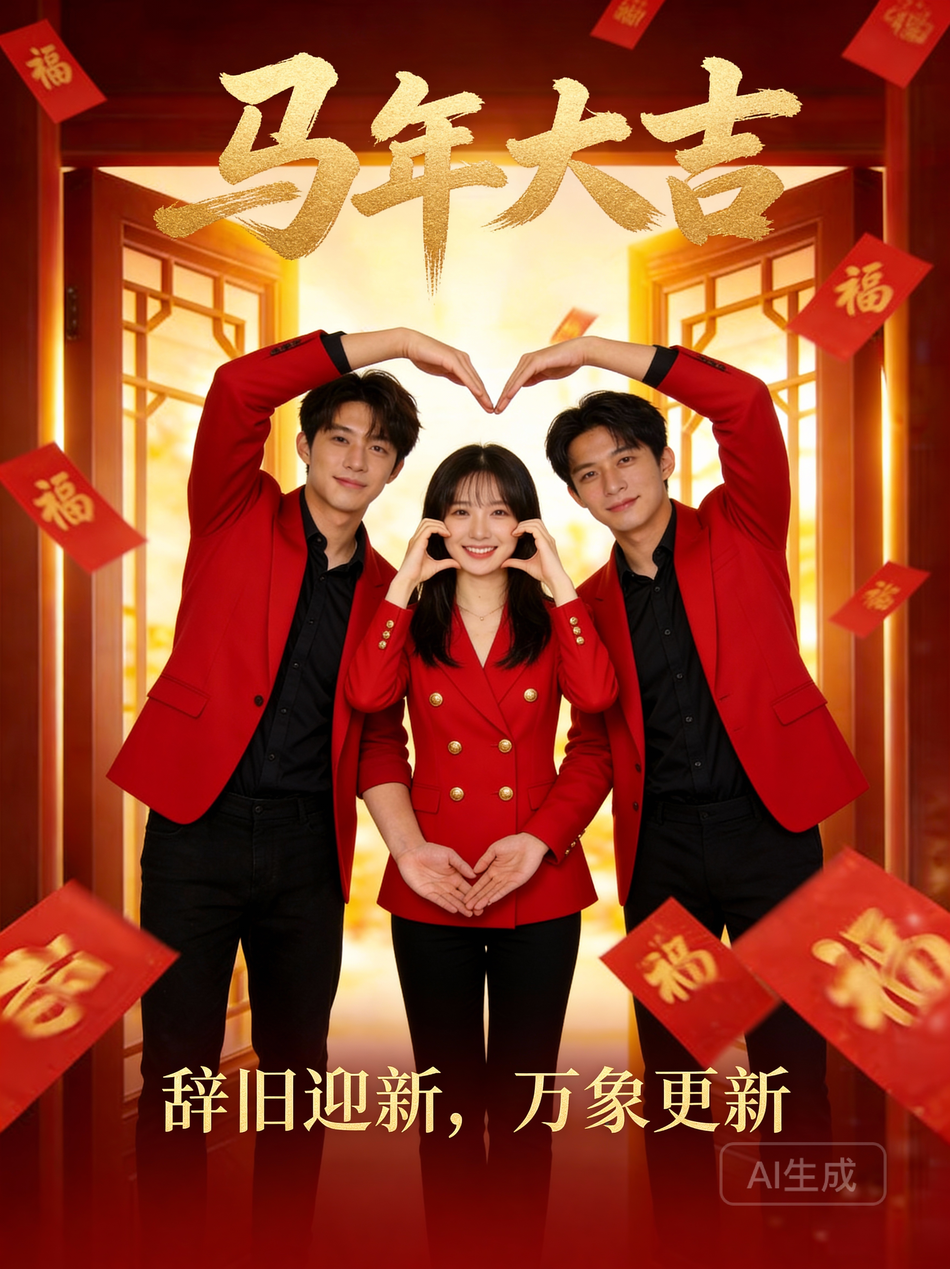
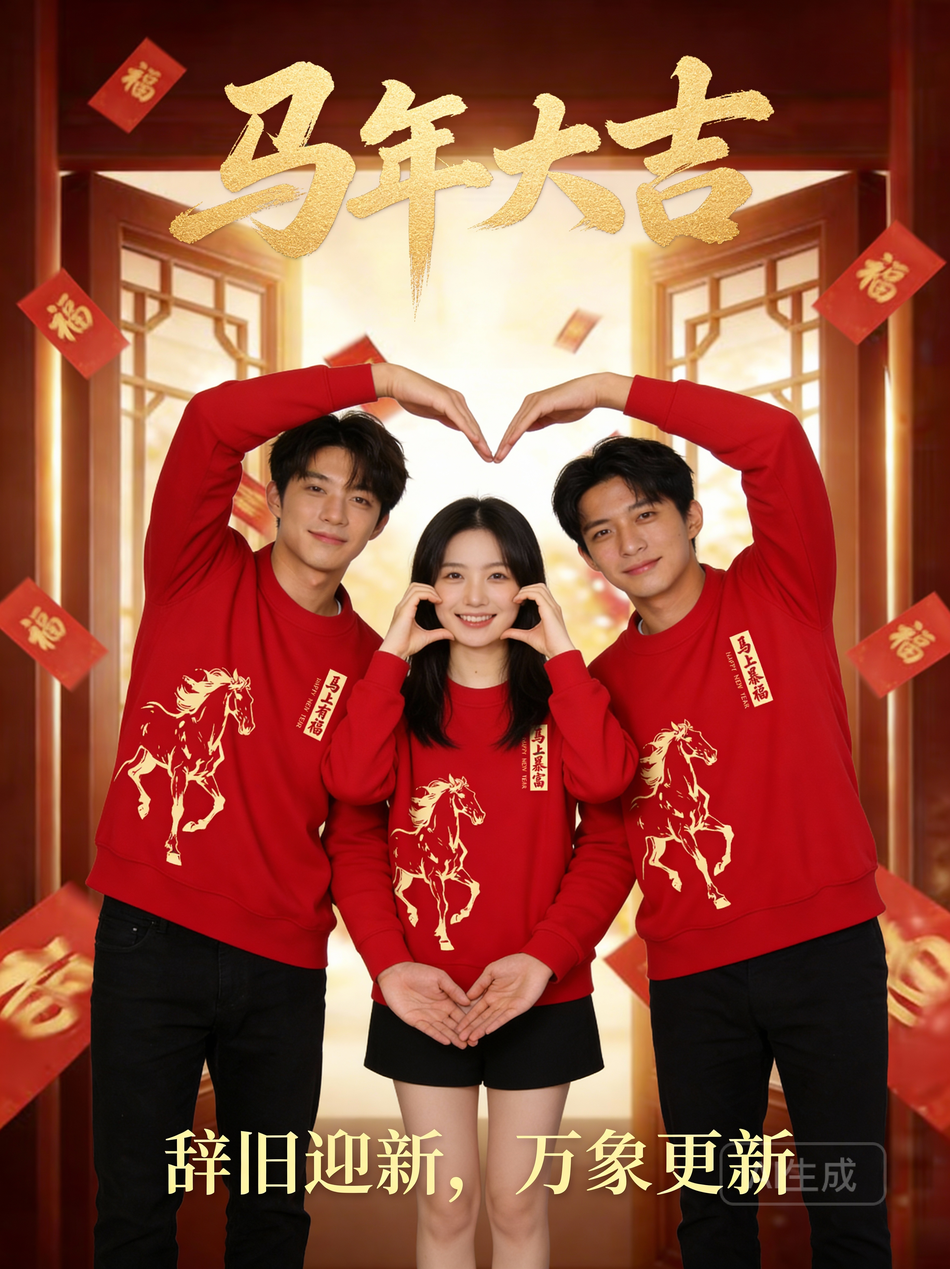
Update gallery content

diff --git a/index.html b/index.html
@@ -493,6 +493,24 @@
                 </div>
             </div>
 
+            <div class="image-card" onclick="openLightbox('AIGC/%E5%A4%A7%E5%A4%B4%E5%8A%A8%E6%BC%AB.webp', '大头动漫')">
+                <div class="image-container">
+                    <img src="thumbnails/AIGC/%E5%A4%A7%E5%A4%B4%E5%8A%A8%E6%BC%AB.webp" alt="大头动漫" loading="lazy" onload="this.classList.add('loaded')">
+                </div>
+                <div class="image-info">
+                    <div class="image-name">大头动漫</div>
+                </div>
+            </div>
+
+            <div class="image-card" onclick="openLightbox('AIGC/%E5%A4%A7%E5%A4%B4%E7%B3%96%E6%9E%9C.webp', '大头糖果')">
+                <div class="image-container">
+                    <img src="thumbnails/AIGC/%E5%A4%A7%E5%A4%B4%E7%B3%96%E6%9E%9C.webp" alt="大头糖果" loading="lazy" onload="this.classList.add('loaded')">
+                </div>
+                <div class="image-info">
+                    <div class="image-name">大头糖果</div>
+                </div>
+            </div>
+
             <div class="image-card" onclick="openLightbox('AIGC/%E5%A4%A7%E6%B9%BE%E9%B8%A11.webp', '大湾鸡1')">
                 <div class="image-container">
                     <img src="thumbnails/AIGC/%E5%A4%A7%E6%B9%BE%E9%B8%A11.webp" alt="大湾鸡1" loading="lazy" onload="this.classList.add('loaded')">
@@ -796,6 +814,33 @@
                 </div>
                 <div class="image-info">
                     <div class="image-name">马年添财(男)</div>
+                </div>
+            </div>
+
+            <div class="image-card" onclick="openLightbox('AIGC/%E9%A9%AC%E5%B9%B4%E9%B8%BF%E8%BF%90%28%E5%90%88%E7%85%A7%29.webp', '马年鸿运(合照)')">
+                <div class="image-container">
+                    <img src="thumbnails/AIGC/%E9%A9%AC%E5%B9%B4%E9%B8%BF%E8%BF%90%28%E5%90%88%E7%85%A7%29.webp" alt="马年鸿运(合照)" loading="lazy" onload="this.classList.add('loaded')">
+                </div>
+                <div class="image-info">
+                    <div class="image-name">马年鸿运(合照)</div>
+                </div>
+            </div>
+
+            <div class="image-card" onclick="openLightbox('AIGC/%E9%A9%AC%E5%B9%B4%E9%B8%BF%E8%BF%90%28%E5%A5%B3%29.webp', '马年鸿运(女)')">
+                <div class="image-container">
+                    <img src="thumbnails/AIGC/%E9%A9%AC%E5%B9%B4%E9%B8%BF%E8%BF%90%28%E5%A5%B3%29.webp" alt="马年鸿运(女)" loading="lazy" onload="this.classList.add('loaded')">
+                </div>
+                <div class="image-info">
+                    <div class="image-name">马年鸿运(女)</div>
+                </div>
+            </div>
+
+            <div class="image-card" onclick="openLightbox('AIGC/%E9%A9%AC%E5%B9%B4%E9%B8%BF%E8%BF%90%28%E7%94%B7%29.webp', '马年鸿运(男)')">
+                <div class="image-container">
+                    <img src="thumbnails/AIGC/%E9%A9%AC%E5%B9%B4%E9%B8%BF%E8%BF%90%28%E7%94%B7%29.webp" alt="马年鸿运(男)" loading="lazy" onload="this.classList.add('loaded')">
+                </div>
+                <div class="image-info">
+                    <div class="image-name">马年鸿运(男)</div>
                 </div>
             </div>
 
